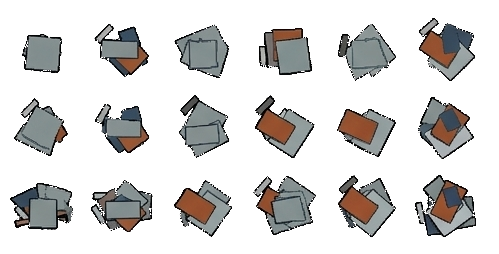
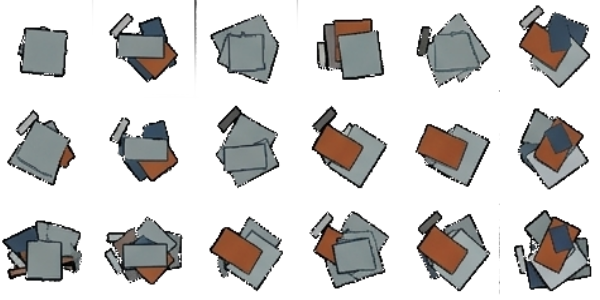
scrap metal sprite

diff --git a/src/entity/Scrap.ts b/src/entity/Scrap.ts
@@ -8,26 +8,13 @@ export class Scrap {
         this.value = value;
         this.container = scene.add.container(0, 0);
         
-        const baseSize = 32;
+        // Use a random frame from the 6x3 scrap-metal spritesheet (18 frames total)
+        const frameIndex = Math.floor(Math.random() * 18);
+        const sprite = scene.add.sprite(0, 0, 'scrap-metal', frameIndex);
         
-        // Random metallic colors
-        const colors = [0x7f8c8d, 0x95a5a6, 0xbdc3c7, 0x34495e];
-        const rustColor = 0xa0522d;
-        
-        // Create a cluster of jagged shapes for a "scrap" look
-        for (let i = 0; i < 4; i++) {
-            const w = Math.random() * 20 + 10;
-            const h = Math.random() * 20 + 10;
-            const x = Math.random() * 16 - 8;
-            const y = Math.random() * 16 - 8;
-            const angle = Math.random() * 360;
-            const color = Math.random() > 0.3 ? colors[Math.floor(Math.random() * colors.length)] : rustColor;
-            
-            const part = scene.add.rectangle(x, y, w, h, color);
-            part.setAngle(angle);
-            part.setStrokeStyle(1, 0x2c3e50, 0.5);
-            this.container.add(part);
-        }
+        // The frame is 100x100, so scale it to fit nicely within the cell
+        sprite.setScale(0.5);
+        this.container.add(sprite);
 
         // Add a small GLINT effect
         const glint = scene.add.rectangle(0, 0, 4, 15, 0xffffff, 0.6);

diff --git a/src/scenes/Preloader.ts b/src/scenes/Preloader.ts
@@ -35,6 +35,8 @@ export class Preloader extends Scene
         this.load.image('logo', 'logo.png');
         //load mech sprite sheet
         this.load.spritesheet('machine', 'machine.png', { frameWidth: 200, frameHeight: 200 });
+        //load human sprite sheet
+        this.load.spritesheet('scrap-metal', 'scrap-metal.png', { frameWidth: 100, frameHeight: 100 });
     }
 
     create ()
